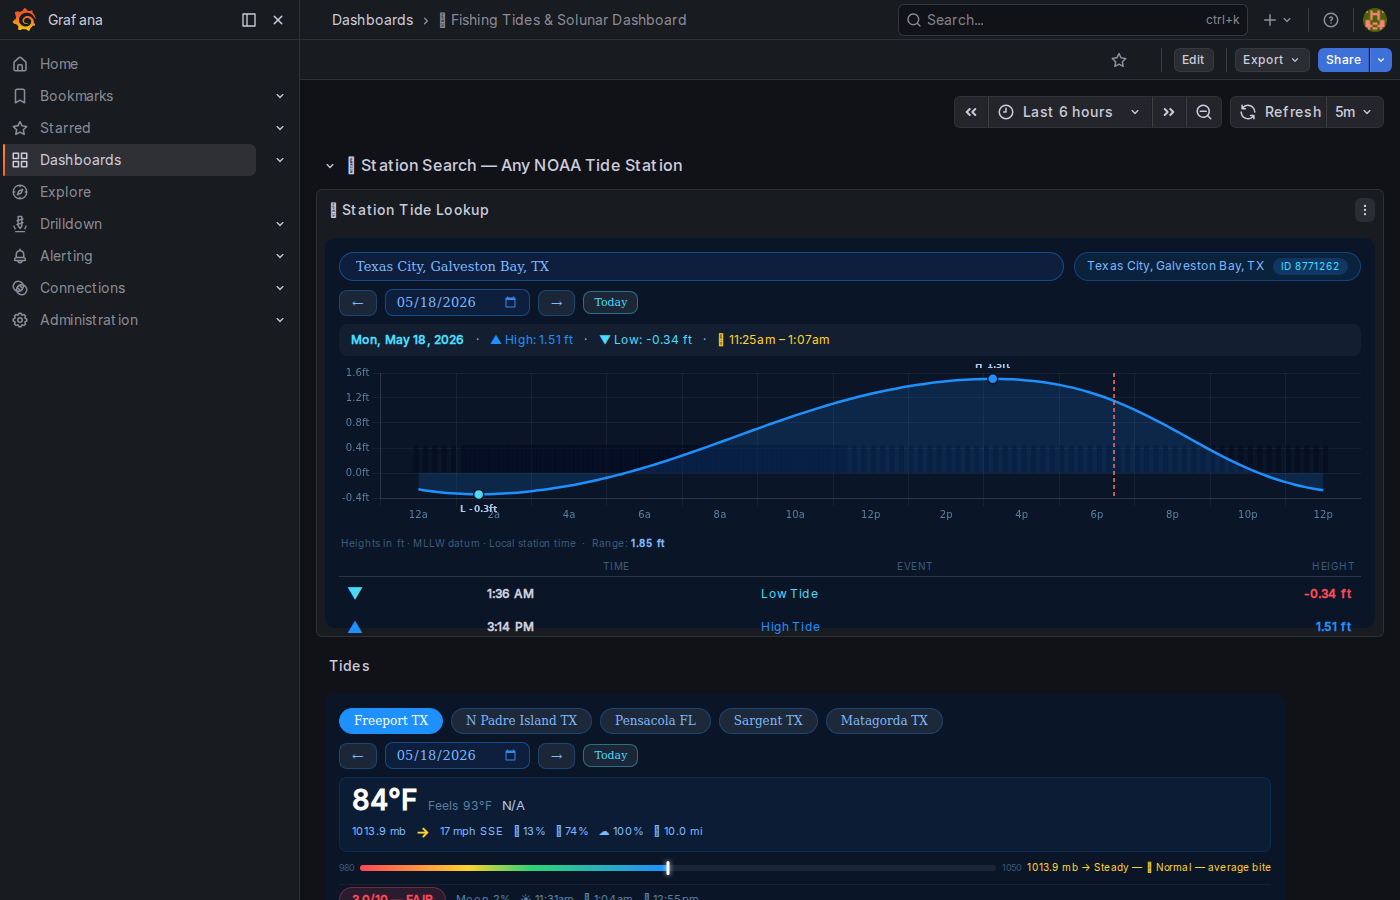
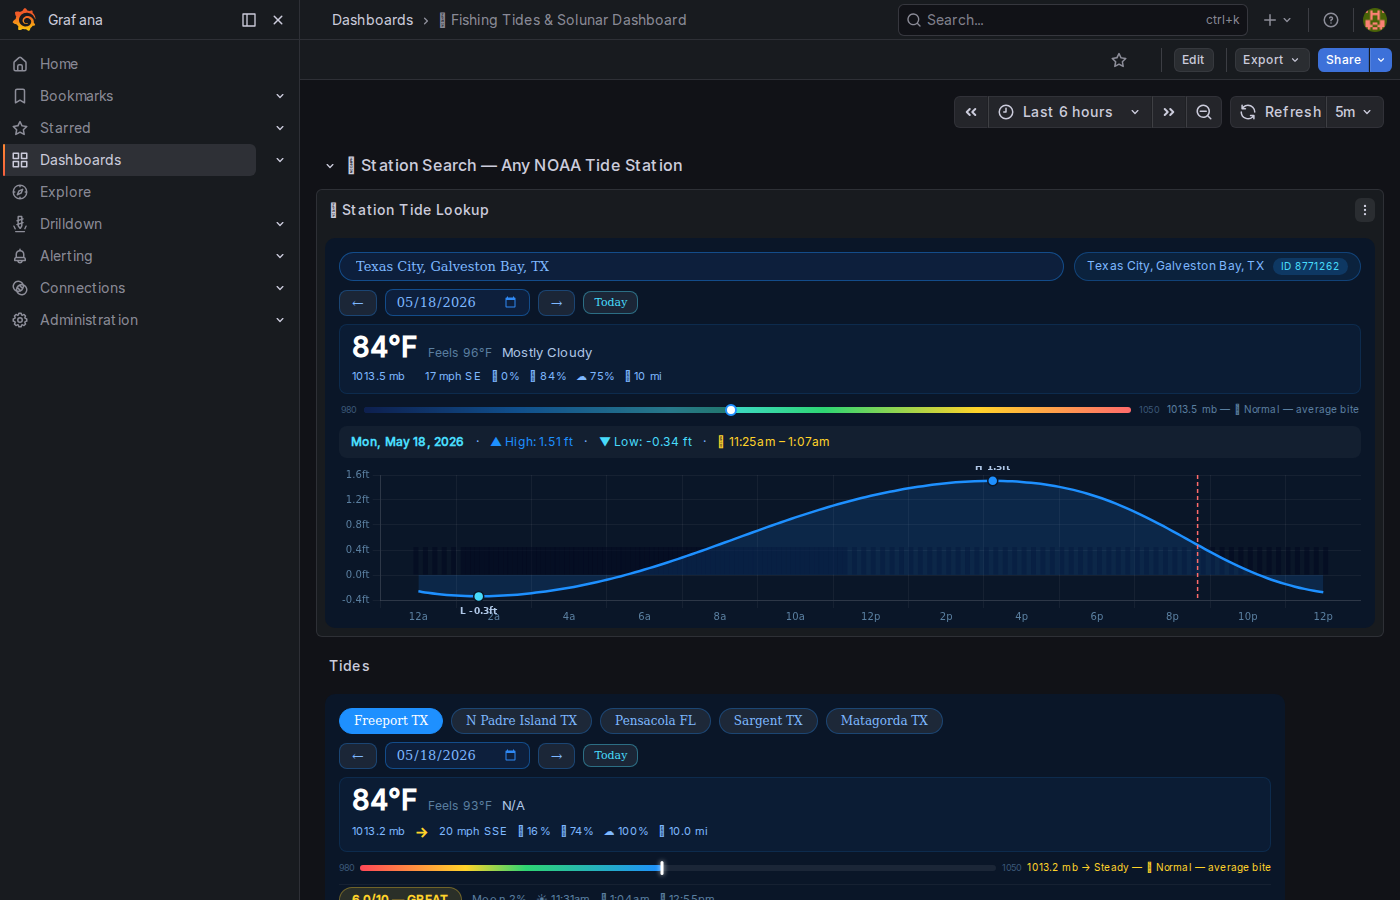
docs: update station search screenshots to show weather strip
Retook grafana_station_search_loaded, _typing, and _panel now that the
weather strip and barometer bar are live. Updated README caption to
describe the full feature set.

diff --git a/README.md b/README.md
@@ -70,11 +70,11 @@ Search any of the 3,450 NOAA tide prediction stations directly in Grafana or on 
 
 **Grafana panel — search and load any station:**
 
-| Search dropdown | Tide chart loaded |
+| Search dropdown | Station loaded — tide chart + weather |
 |---|---|
 | ![Grafana Station Search Typing](docs/screenshots/grafana_station_search_typing.png) | ![Grafana Station Search Loaded](docs/screenshots/grafana_station_search_loaded.png) |
 
-The Station Tide Lookup panel sits at the top of the dashboard. Type any city, station name, or state abbreviation — results show station ID and coordinates. Select a result to render the same IDW tide curve, Hi/Lo markers, and events table used by the tracked-station panels. Date navigation works the same way.
+The Station Tide Lookup panel sits at the top of the dashboard. Type any city, station name, or state abbreviation — results show station ID and coordinates. Select a result to render the full view: weather strip (temp, feels-like, pressure, wind, precip, humidity, clouds), barometer bar with fishing hint, IDW tide curve, Hi/Lo markers, and events table — the same layout as the tracked-station panels. Date navigation works the same way.
 
 **Tides web page (`/tides`) — station picker + quick search:**
 
